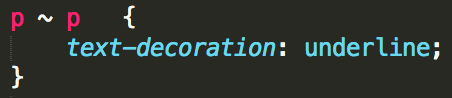
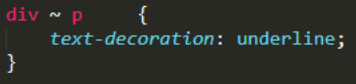
Even more happy

diff --git a/site/CSS3/f-e.html b/site/CSS3/f-e.html
@@ -130,34 +130,39 @@
       ALSO I HAVE TO EDIT FROM HERE DOWNWARDS-->
       <span></span>
       <div><span>Element with a class selector</span>
-        <br>Example text, example text, example text, example text, example text. Example text, example text, example text, 
-        <br>An example is shown below:
+        <br>To do this, you simply type in the name of the element followed by a fullstop and then name of the class without spaces in between. 
+        <p>An example is shown below:
         <br><img src="elementwithclassselector.png" width="182" height="56" alt="Element with Class Selector">
-        <br>This means that
+        <br>This means that every 'span' element that is classed as examples will have a 40px left margin.
+        </p>
       </div>
       <div><span>Direct child selector</span>
-        <br>Example text, example text, example text, example text, example text. Example text, example text, example text, 
-        <br>An example is shown below:
+        <br>The direct child inside the parent will be affected. Not all descendants, just the ones that are directly inside the parent. 
+        <p>An example is shown below:
         <br><img src="directchildselector.png" width="142" height="56" alt="Direct Child Selector">
-        <br>This means that
+        <br>This means that every 'p' element that is a direct child of an article will be blue. A 'p' tag within a 'div' tag that is within an 'article' tag, will not be affected.
+        </p>
       </div>
       <div><span>Descendant selector</span>
-        <br>Example text, example text, example text, example text, example text. Example text, example text, example text, 
-        <br>An example is shown below:
+        <br>Is the exact same as the direct child selector, except for the fact that it also includes any of the tags that are also not direct child.
+        <p>An example is shown below:
         <br><img src="descendantselector.png" width="170" height="56" alt="Descendant Selector">
-        <br>This means that
+        <br>This means that any 'p' elements that are within the 'article' element will have the font size of 24px.
+        </p>
       </div>
       <div><span>Adjacent sibling selector</span>
-        <br>Example text, example text, example text, example text, example text. Example text, example text, example text, 
-        <br>An example is shown below:
+        <br>This is used to affect selectors that are next to each other. You use the '+' to connect selectors.
+        <p>An example is shown below:
         <br><img src="adjacentsiblingselector.png" width="222" height="56" alt="Adjacent Sibling Selector">
-        <br>This means that
+        <br>This means that any 'p' tag that directly follows a 'p' tag will have a yellow backfground. The first p itself is not affected.
+        </p>
       </div>
       <div><span>General sibling selector</span>
-        <br>Example text, example text, example text, example text, example text. Example text, example text, example text, 
-        <br>An example is shown below:
-        <br><img src="generalsiblingselector.png" width="240" height="54" alt="General Sibling Selector">
-        <br>This means that
+        <br>To do this, you use the '~' to connect selectors. This means that all the siblings within the same parent will have certain attributes.
+        <p>An example is shown below:
+        <br><img src="generalsiblingselector.png" width="248" height="64" alt="General Sibling Selector">
+        <br>This means that any 'p' elements with the same parent 'div' element will be underlined.
+        </p>
       </div>
     </section>
     <p class=clear>All of this can be applied to different selectors and can be mixed. It doesn't have to be with element to element only.

diff --git a/site/CSS3/stylesheet.css b/site/CSS3/stylesheet.css
@@ -83,6 +83,7 @@ span.examples	{
 	padding: 10px;
 	border-color: #808080;
 	width: 250px;
+	height: 300px;
 	font-weight: 0;
 }
 
